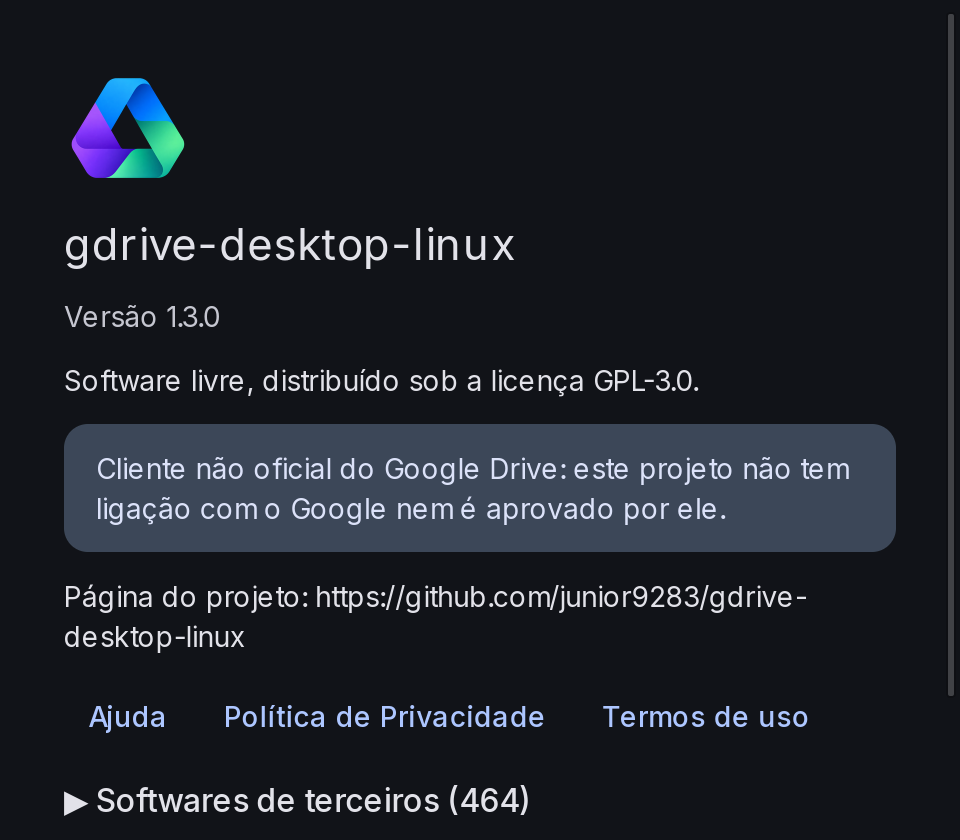
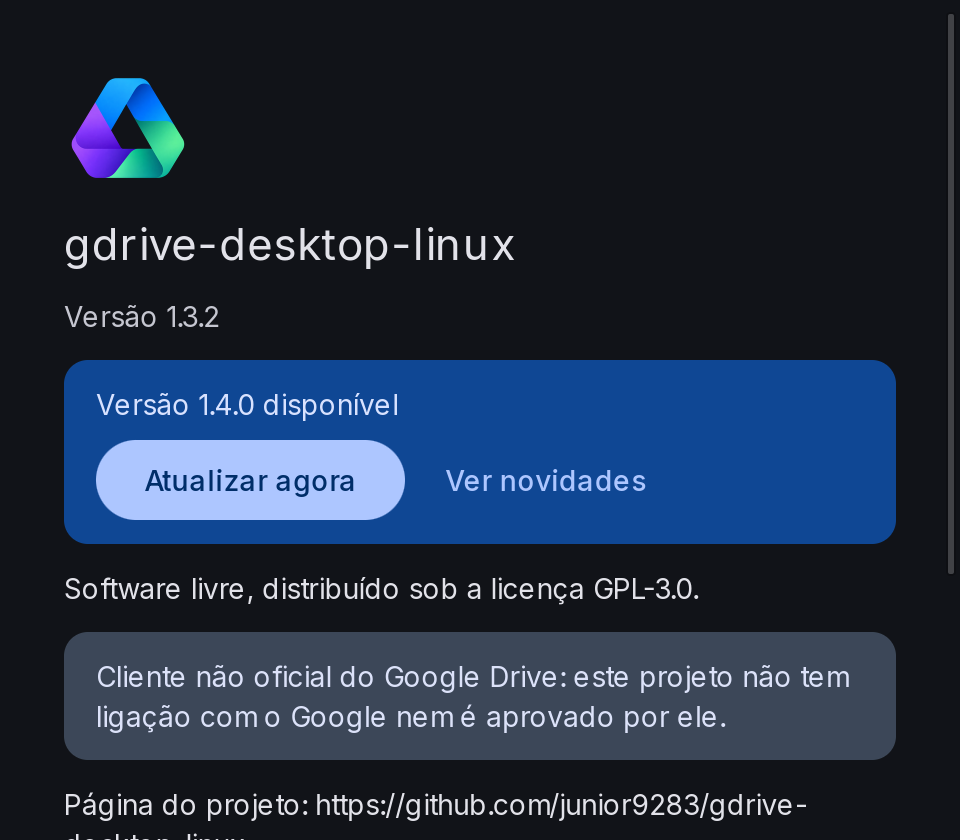
Atualização: faixa na tela Sobre

diff --git a/crates/gdl-ui/ui/screens/about.js b/crates/gdl-ui/ui/screens/about.js
@@ -2,6 +2,7 @@
 // terceiros (as bibliotecas Rust, geradas no build, e os recursos do front-end).
 
 import { appLogo, el, stylesheet } from '../components.js';
+import { updateBanner } from './about/model.js';
 
 const PROJECT = 'https://github.com/junior9283/gdrive-desktop-linux';
 // Os recursos do front-end (as licenças completas estão em `third-party/`).
@@ -10,11 +11,39 @@ const FRONTEND = [
   { name: 'Material Symbols', version: '', license: 'Apache-2.0' },
 ];
 const LINKS = ['help', 'privacy', 'terms'];
+// O estado entre as chamadas de `render` (ela é chamada de novo quando o serviço volta): a faixa
+// da tela atual, que o sinal `update-changed` refaz.
+const screen = { update: null, ctx: null, listening: null };
+
+// A faixa da versão nova (escondida sem ela), a partir do `UpdateInfo` (`null` se falhou).
+function drawUpdate(box, info, { api, t }) {
+  const banner = updateBanner(info);
+  const buttons = {
+    update: () => el('button', { class: 'filled', onclick: () => api.call('start_update').catch(() => {}) }, t('about-update-now')),
+    release: () => el('button', { class: 'text', onclick: () => api.call('open_release').catch(() => {}) }, t('about-update-release')),
+  };
+  box.hidden = !banner;
+  box.replaceChildren(...(banner
+    ? [
+      el('p', {}, t(banner.text, { version: banner.version })),
+      el('div', { class: 'about-update-actions' }, banner.actions.map((a) => buttons[a]())),
+    ]
+    : []));
+}
+
+const updateInfo = (api) => api.call('update_info').catch(() => null);
 
 export async function render(root, { api, official, t }) {
   const css = stylesheet('screens/about.css');
-  const [version, crates] = await Promise.all([api.version(), api.thirdParty(), css]);
+  const [version, crates, info] = await Promise.all([api.version(), api.thirdParty(), updateInfo(api), css]);
   const all = [...FRONTEND, ...crates];
+  const update = el('div', { class: 'about-update' });
+  drawUpdate(update, info, { api, t });
+  Object.assign(screen, { update, ctx: { api, t } });
+  screen.listening ??= api.on('update-changed', async () => {
+    const latest = await updateInfo(screen.ctx.api);
+    drawUpdate(screen.update, latest, screen.ctx);
+  });
   root.replaceChildren(
     el(
       'main',
@@ -22,6 +51,7 @@ export async function render(root, { api, official, t }) {
       el('img', { class: 'about-logo', src: appLogo(official), alt: '' }),
       el('h1', {}, t('about-name')),
       el('p', { class: 'about-version' }, t('about-version', { version })),
+      update,
       el('p', { class: 'about-license' }, t('about-license')),
       el('p', { class: 'about-unofficial' }, t('about-unofficial')),
       el('p', { class: 'about-project' }, t('about-project', { url: PROJECT })),

diff --git a/crates/gdl-ui/ui/tests/about.model.test.js b/crates/gdl-ui/ui/tests/about.model.test.js
@@ -1,0 +1,31 @@
+import { test } from 'node:test';
+import assert from 'node:assert/strict';
+import { updateBanner } from '../screens/about/model.js';
+
+const offer = (step = 'available', can_install = true) => ({ version: '9.9.9', can_install, step });
+
+test('about_shows_update_banner', () => {
+  assert.deepEqual(updateBanner(offer()), {
+    text: 'about-update-available',
+    version: '9.9.9',
+    actions: ['update', 'release'],
+  });
+});
+
+test('about_hides_banner_without_offer', () => {
+  assert.equal(updateBanner({ version: '', can_install: false, step: 'available' }), null);
+  assert.equal(updateBanner(null), null);
+});
+
+test('about_banner_without_install_shows_only_release_link', () => {
+  assert.deepEqual(updateBanner(offer('available', false)).actions, ['release']);
+});
+
+test('about_banner_shows_step_while_installing', () => {
+  const texts = ['downloading', 'waiting-password', 'installing'].map((step) => {
+    const banner = updateBanner(offer(step));
+    assert.deepEqual(banner.actions, [], step);
+    return banner.text;
+  });
+  assert.deepEqual(texts, ['about-update-downloading', 'about-update-password', 'about-update-installing']);
+});

diff --git a/crates/gdl-ui/ui/tests/keys.test.js b/crates/gdl-ui/ui/tests/keys.test.js
@@ -4,6 +4,7 @@ import { readdirSync, readFileSync } from 'node:fs';
 import { join } from 'node:path';
 import { fileURLToPath } from 'node:url';
 import { parseFtl } from '../i18n.js';
+import { AVAILABLE_TEXT, STEP_TEXTS } from '../screens/about/model.js';
 import { CATEGORIES } from '../screens/errors/model.js';
 import { GUIDE, REASONS, TROUBLES, stepsFor } from '../screens/onboarding/model.js';
 import { ROLES, generalKinds } from '../screens/share/model.js';
@@ -45,6 +46,7 @@ test('toda chave usada nas telas existe nos dois idiomas', () => {
   for (const role of [...ROLES, 'owner', 'remove']) used.add(`share-role-${role}`);
   for (const kind of generalKinds('x')) used.add(`share-general-${kind}`).add(`share-general-${kind}-text`);
   for (const action of ['download', 'restore', 'keep', 'unkeep']) used.add(`versions-${action}`);
+  for (const key of [...Object.values(STEP_TEXTS), AVAILABLE_TEXT]) used.add(key);
   for (const block of ['stream', 'sync', 'offline']) {
     used.add(`onboarding-intro-${block}-title`).add(`onboarding-intro-${block}-text`);
   }

diff --git a/crates/gdl-ui/ui/screens/about/model.js b/crates/gdl-ui/ui/screens/about/model.js
@@ -1,0 +1,25 @@
+// A faixa da versão nova na tela Sobre, sem DOM: o texto e os botões a partir do `UpdateInfo`
+// do serviço (`{ version, can_install, step }`).
+
+// O texto de cada passo da atualização (sem botões enquanto ela anda).
+export const STEP_TEXTS = {
+  downloading: 'about-update-downloading',
+  'waiting-password': 'about-update-password',
+  installing: 'about-update-installing',
+};
+
+// O texto da versão nova parada (com os botões).
+export const AVAILABLE_TEXT = 'about-update-available';
+
+// `null` sem versão nova; senão `{ text, version, actions }`, com `actions` entre `update`
+// ("Atualizar agora", quando o app instala sozinho) e `release` ("Ver novidades").
+export function updateBanner(info) {
+  if (!info?.version) return null;
+  const step = STEP_TEXTS[info.step];
+  if (step) return { text: step, version: info.version, actions: [] };
+  return {
+    text: AVAILABLE_TEXT,
+    version: info.version,
+    actions: info.can_install ? ['update', 'release'] : ['release'],
+  };
+}

diff --git a/crates/gdl-ui/ui/screens/about.css b/crates/gdl-ui/ui/screens/about.css
@@ -16,6 +16,28 @@
   color: var(--md-on-surface-variant);
 }
 
+/* A versão nova: o texto e, parada, "Atualizar agora" e "Ver novidades". */
+.about-update {
+  display: flex;
+  flex-wrap: wrap;
+  align-items: center;
+  justify-content: space-between;
+  gap: 8px 16px;
+  padding: 12px 16px;
+  border-radius: var(--md-shape-medium);
+  background: var(--md-primary-container);
+  color: var(--md-on-primary-container);
+}
+
+.about-update p {
+  margin: 0;
+}
+
+.about-update-actions {
+  display: flex;
+  gap: 8px;
+}
+
 .about-unofficial {
   padding: 12px 16px;
   border-radius: var(--md-shape-medium);

diff --git a/crates/gdl-daemon/examples/e2e-daemon.rs b/crates/gdl-daemon/examples/e2e-daemon.rs
@@ -9,12 +9,19 @@
 //! O "navegador" anota em `$GDL_E2E_OPENED` cada endereço ou caminho que o serviço abre. SIGUSR1
 //! enche o armazenamento do Drive simulado (todo pedido recebe `storageQuotaExceeded`) e SIGUSR2
 //! o libera; feito, o estado (`full` ou `free`) vai para `$GDL_E2E_QUOTA`.
+//!
+//! Para as imagens do README (`$GDL_SCREENSHOTS`), oferece uma versão nova assinada (a faixa da
+//! tela Sobre). O instalador daqui recusa tudo: o e2e nunca instala nada.
 
 use std::sync::Arc;
 use std::time::Duration;
 
 use futures_util::StreamExt;
 use gdl_common::paths::Paths;
+use gdl_daemon::updates::{text, version};
+use gdl_daemon::upgrade::install::{InstallOutcome, Installer};
+use gdl_daemon::upgrade::offer::{SIGNATURE, SUMS};
+use gdl_daemon::upgrade::{InstallKind, UpgradeError};
 use gdl_daemon::{Api, Config, Daemon, Service};
 use gdl_drive::client::Backoff;
 use gdl_drive::oauth::OAuthEndpoints;
@@ -25,6 +32,48 @@ use gdl_ipc::{BUS_NAME, OBJECT_PATH, ServiceProxy};
 use tokio::signal::unix::{SignalKind, signal};
 
 type Error = Box<dyn std::error::Error>;
+
+/// O instalador do e2e: recusa (nenhum teste instala de verdade).
+struct NoInstaller;
+
+#[async_trait::async_trait]
+impl Installer for NoInstaller {
+    async fn install(
+        &self,
+        _kind: &InstallKind,
+        _package: &std::path::Path,
+        _sha256: &str,
+    ) -> Result<InstallOutcome, UpgradeError> {
+        Err(UpgradeError::Install("e2e".into()))
+    }
+}
+
+/// Publica no Drive simulado a versão seguinte (minor + 1) com o `.rpm`, o `SHA256SUMS` e a
+/// assinatura de `pair`.
+fn publish_next_release(fake: &FakeDrive, pair: &minisign::KeyPair) -> Result<(), Error> {
+    use sha2::Digest;
+    let (major, minor, _) = version(env!("CARGO_PKG_VERSION")).ok_or("versão do pacote")?;
+    let next = (major, minor + 1, 0);
+    let name = InstallKind::Rpm
+        .package_name(next)
+        .ok_or("sem pacote nesta arquitetura")?;
+    let package = b"pacote".to_vec();
+    let hash: String = sha2::Sha256::digest(&package)
+        .iter()
+        .map(|b| format!("{b:02x}"))
+        .collect();
+    let sums = format!("{hash}  {name}\n");
+    let signature = minisign::sign(Some(&pair.pk), &pair.sk, sums.as_bytes(), None, None)?;
+    fake.set_release(
+        Some(&format!("v{}", text(next))),
+        vec![
+            (name, package),
+            (SUMS.into(), sums.into_bytes()),
+            (SIGNATURE.into(), signature.into_string().into_bytes()),
+        ],
+    );
+    Ok(())
+}
 
 /// A conta que o próximo login (depois do primeiro) traz.
 const ANA: &str = "ana@example.com";
@@ -60,6 +109,9 @@ async fn main() -> Result<(), Error> {
         paths.etc_dir.join("policies.toml"),
         "AutoStartOnLogin = false\n",
     )?;
+    // Só nas imagens do README: uma versão nova assinada por esta chave (a faixa da tela Sobre).
+    let screenshots = std::env::var_os("GDL_SCREENSHOTS").is_some();
+    let release_key = minisign::KeyPair::generate_unencrypted_keypair()?;
     let daemon = Daemon::new(Config {
         paths,
         lang: gdl_common::i18n::env_lang(),
@@ -92,11 +144,11 @@ async fn main() -> Result<(), Error> {
             url: fake.releases_url(),
             first: std::time::Duration::from_secs(3600),
             every: std::time::Duration::from_secs(3600),
-            // Sem chave: o e2e nunca instala nada.
-            public_key: String::new(),
+            public_key: release_key.pk.to_base64(),
         },
-        install_kind: gdl_daemon::upgrade::InstallKind::Source,
-        installer: Arc::new(gdl_daemon::upgrade::install::SystemInstaller),
+        // Fora das imagens não há versão nova; com ela, o instalador daqui recusa.
+        install_kind: InstallKind::Rpm,
+        installer: Arc::new(NoInstaller),
     })?;
     let conn = zbus::connection::Builder::session()?
         .serve_at(OBJECT_PATH, Service::new(daemon.clone()))?
@@ -133,6 +185,10 @@ async fn main() -> Result<(), Error> {
         .ok;
     if !signal_ok {
         return Err("o login falhou".into());
+    }
+    if screenshots {
+        publish_next_release(&fake, &release_key)?;
+        daemon.check_release().await;
     }
     // Uma segunda conta, para quem adiciona outra pela janela: o próximo login entra nela.
     ana.add_file(&ana.root_id(), "da-ana.txt", b"oi".to_vec());

diff --git a/crates/gdl-ui/src/bridge.rs b/crates/gdl-ui/src/bridge.rs
@@ -326,10 +326,23 @@ impl Bridge {
         Ok(())
     }
 
+    /// A versão do serviço, se ele for de outra versão que esta janela (ver
+    /// `gdl_common::relaunch::outdated_for`); `None` sem serviço ou na mesma versão.
+    pub async fn outdated_service(&self) -> Option<String> {
+        let version = self.service.service_version().await.ok()?;
+        gdl_common::relaunch::outdated_for(&version).then_some(version)
+    }
+
     /// Enquanto o serviço estiver fora, tenta a cada `every`; quando ele volta, emite
-    /// `service-up` (as telas recarregam o que mostram). Quando o nome do serviço perde o dono,
+    /// `service-up` (as telas recarregam o que mostram), depois de passar a versão dele a
+    /// `on_outdated` se for outra (uma atualização o trocou de programa). Quando o nome do serviço perde o dono,
     /// emite `service-down` na hora (as telas mostram o aviso sem esperar uma chamada falhar).
-    pub async fn watch(self: Arc<Self>, every: Duration, emit: Emit) {
+    pub async fn watch(
+        self: Arc<Self>,
+        every: Duration,
+        emit: Emit,
+        on_outdated: impl Fn(String) + Send + 'static,
+    ) {
         let mut ticker = tokio::time::interval(every);
         ticker.set_missed_tick_behavior(tokio::time::MissedTickBehavior::Delay);
         // Sem os avisos do barramento, a queda só aparece quando uma chamada falhar.
@@ -344,6 +357,9 @@ impl Bridge {
                     }
                     let _ = self.call("status", Value::Null).await;
                     if self.is_up() {
+                        if let Some(version) = self.outdated_service().await {
+                            on_outdated(version);
+                        }
                         emit("service-up", Value::Null);
                     }
                 }
@@ -448,6 +464,10 @@ mod tests {
 
         fn start_update(&self) -> Result<(), ServiceError> {
             Err(ServiceError::Refused("updating".into()))
+        }
+
+        fn service_version(&self) -> String {
+            "99.0.0".into()
         }
 
         #[zbus(signal)]
@@ -609,6 +629,16 @@ mod tests {
     }
 
     #[tokio::test]
+    async fn another_service_version_is_outdated() {
+        let (_server, bridge) = bridge_with_fake().await;
+        assert_eq!(bridge.outdated_service().await.as_deref(), Some("99.0.0"));
+
+        let bus = PrivateBus::start();
+        let alone = Bridge::new(&bus.connect().await).await.unwrap();
+        assert_eq!(alone.outdated_service().await, None, "sem serviço");
+    }
+
+    #[tokio::test]
     async fn service_down_gives_unavailable() {
         let bus = PrivateBus::start();
         let bridge = Arc::new(Bridge::new(&bus.connect().await).await.unwrap());
@@ -622,7 +652,15 @@ mod tests {
         let emit: Emit = Arc::new(move |name, _| {
             let _ = tx.send(name);
         });
-        tokio::spawn(bridge.clone().watch(Duration::from_millis(50), emit));
+        let (outdated_tx, mut outdated) = tokio::sync::mpsc::unbounded_channel();
+        let on_outdated = move |version| {
+            let _ = outdated_tx.send(version);
+        };
+        tokio::spawn(
+            bridge
+                .clone()
+                .watch(Duration::from_millis(50), emit, on_outdated),
+        );
         let service = bus.connect().await;
         service
             .object_server()
@@ -634,6 +672,8 @@ mod tests {
         let event = tokio::time::timeout(Duration::from_secs(5), up.recv()).await;
         assert_eq!(event.ok().flatten(), Some("service-up"));
         assert!(bridge.is_up());
+        // O serviço falso diz ser a 99.0.0: a janela seria trocada pelo programa novo.
+        assert_eq!(outdated.try_recv().ok().as_deref(), Some("99.0.0"));
 
         // O serviço sai: o aviso vem do barramento, sem nenhuma chamada falhar antes.
         service.release_name(BUS_NAME).await.unwrap();

diff --git a/crates/gdl-ui/src/main.rs b/crates/gdl-ui/src/main.rs
@@ -228,7 +228,17 @@ async fn start(request: &str) -> zbus::Result<Option<(Bridge, Requests)>> {
     }
 }
 
+/// O serviço voltou na versão `version` (outra): troca este processo pelo programa novo (com os
+/// mesmos argumentos: a primeira tela de novo).
+fn restart_in_new_program(version: String) {
+    tracing::info!(versao = %version, "o serviço foi atualizado; reiniciando a janela");
+    let error = gdl_common::relaunch::exec_startup_exe(Some(&version));
+    tracing::error!(erro = %error, "não deu para reiniciar a janela");
+}
+
 fn main() -> ExitCode {
+    // Antes de qualquer troca do pacote: depois dela, `/proc/self/exe` aponta o arquivo apagado.
+    gdl_common::paths::startup_exe();
     gdl_common::crash::install(gdl_common::brand::UI_PROGRAM);
     // Antes do GTK: vira a classe das janelas (o app_id no Wayland), pela qual a barra de tarefas
     // e a barra de título acham o `.desktop` e o ícone.
@@ -294,7 +304,7 @@ fn main() -> ExitCode {
                     }
                 }
             });
-            tauri::async_runtime::spawn(bridge.watch(RECONNECT, emit));
+            tauri::async_runtime::spawn(bridge.watch(RECONNECT, emit, restart_in_new_program));
             tauri::async_runtime::spawn(async move {
                 while let Some(name) = requests.recv().await {
                     if let Err(e) = show_request(&handle, &name) {

diff --git a/crates/gdl-ui/tests/e2e.rs b/crates/gdl-ui/tests/e2e.rs
@@ -1465,12 +1465,8 @@ async fn screenshots_for_the_readme() {
             "arquivos-off-line",
         ),
         ("preferences", "p.path", "Google Drive", "preferencias"),
-        (
-            "about",
-            ".about-version",
-            env!("CARGO_PKG_VERSION"),
-            "sobre",
-        ),
+        // Com a versão nova que o serviço do e2e oferece nas imagens.
+        ("about", ".about-update", "Atualizar agora", "sobre"),
         ("uninstall", ".uninstall", "", "desinstalar"),
         ("feedback", ".feedback", "", "feedback"),
         (
